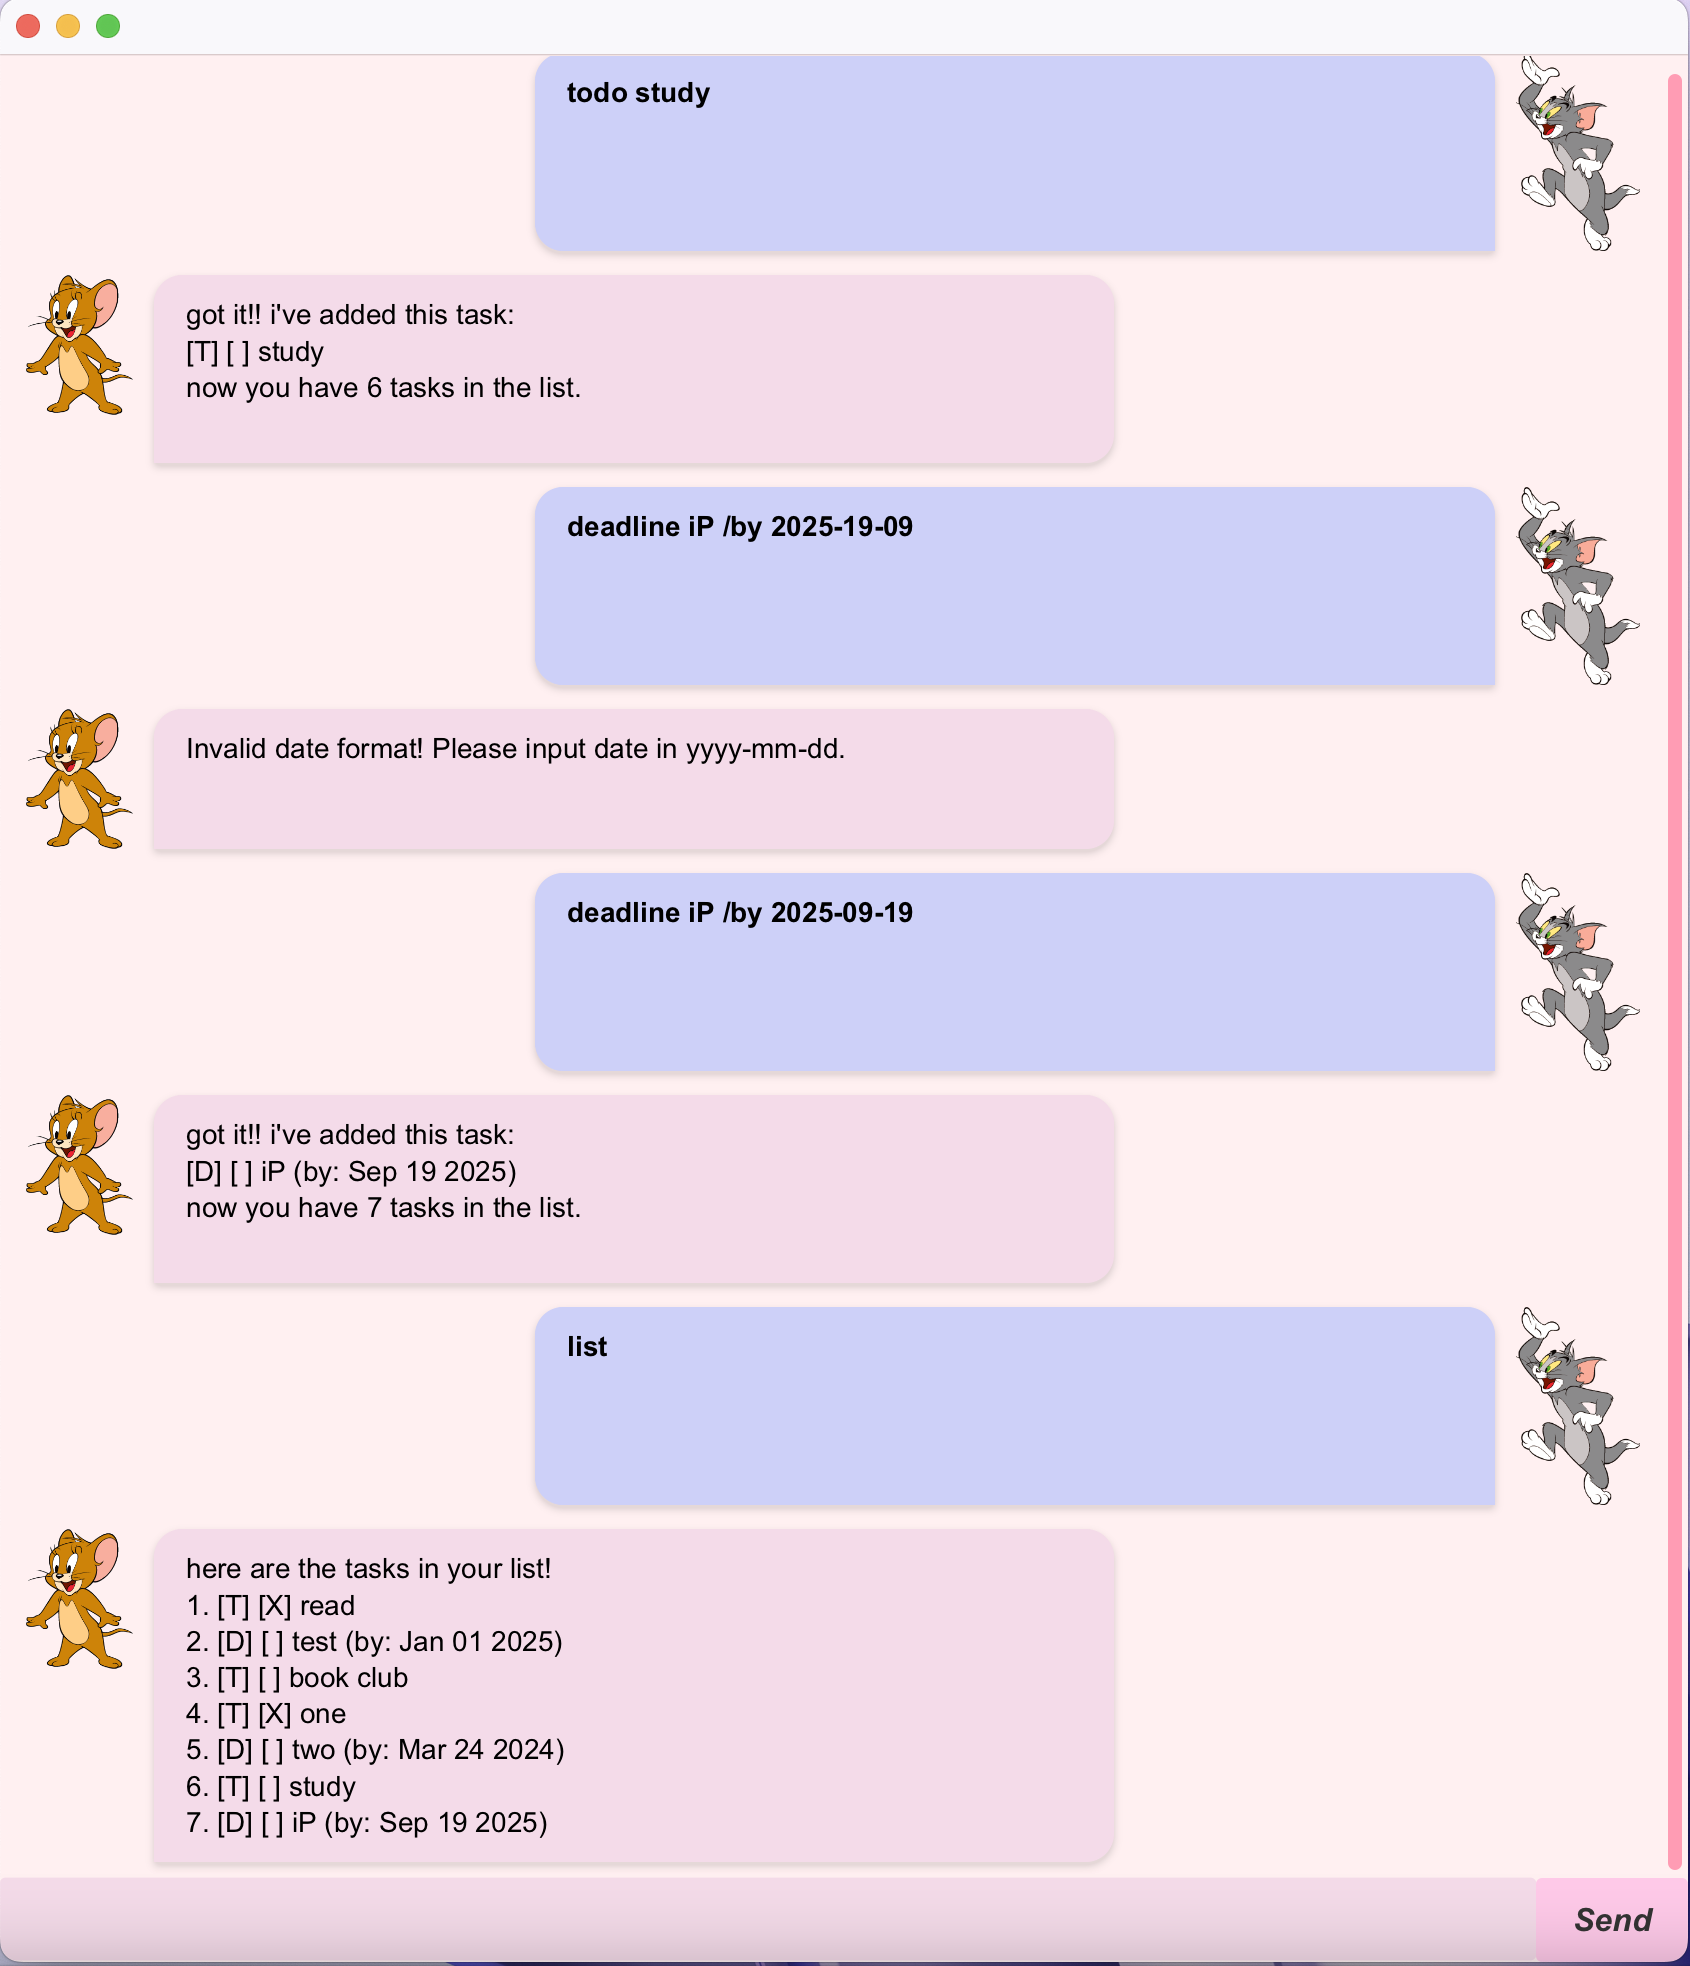
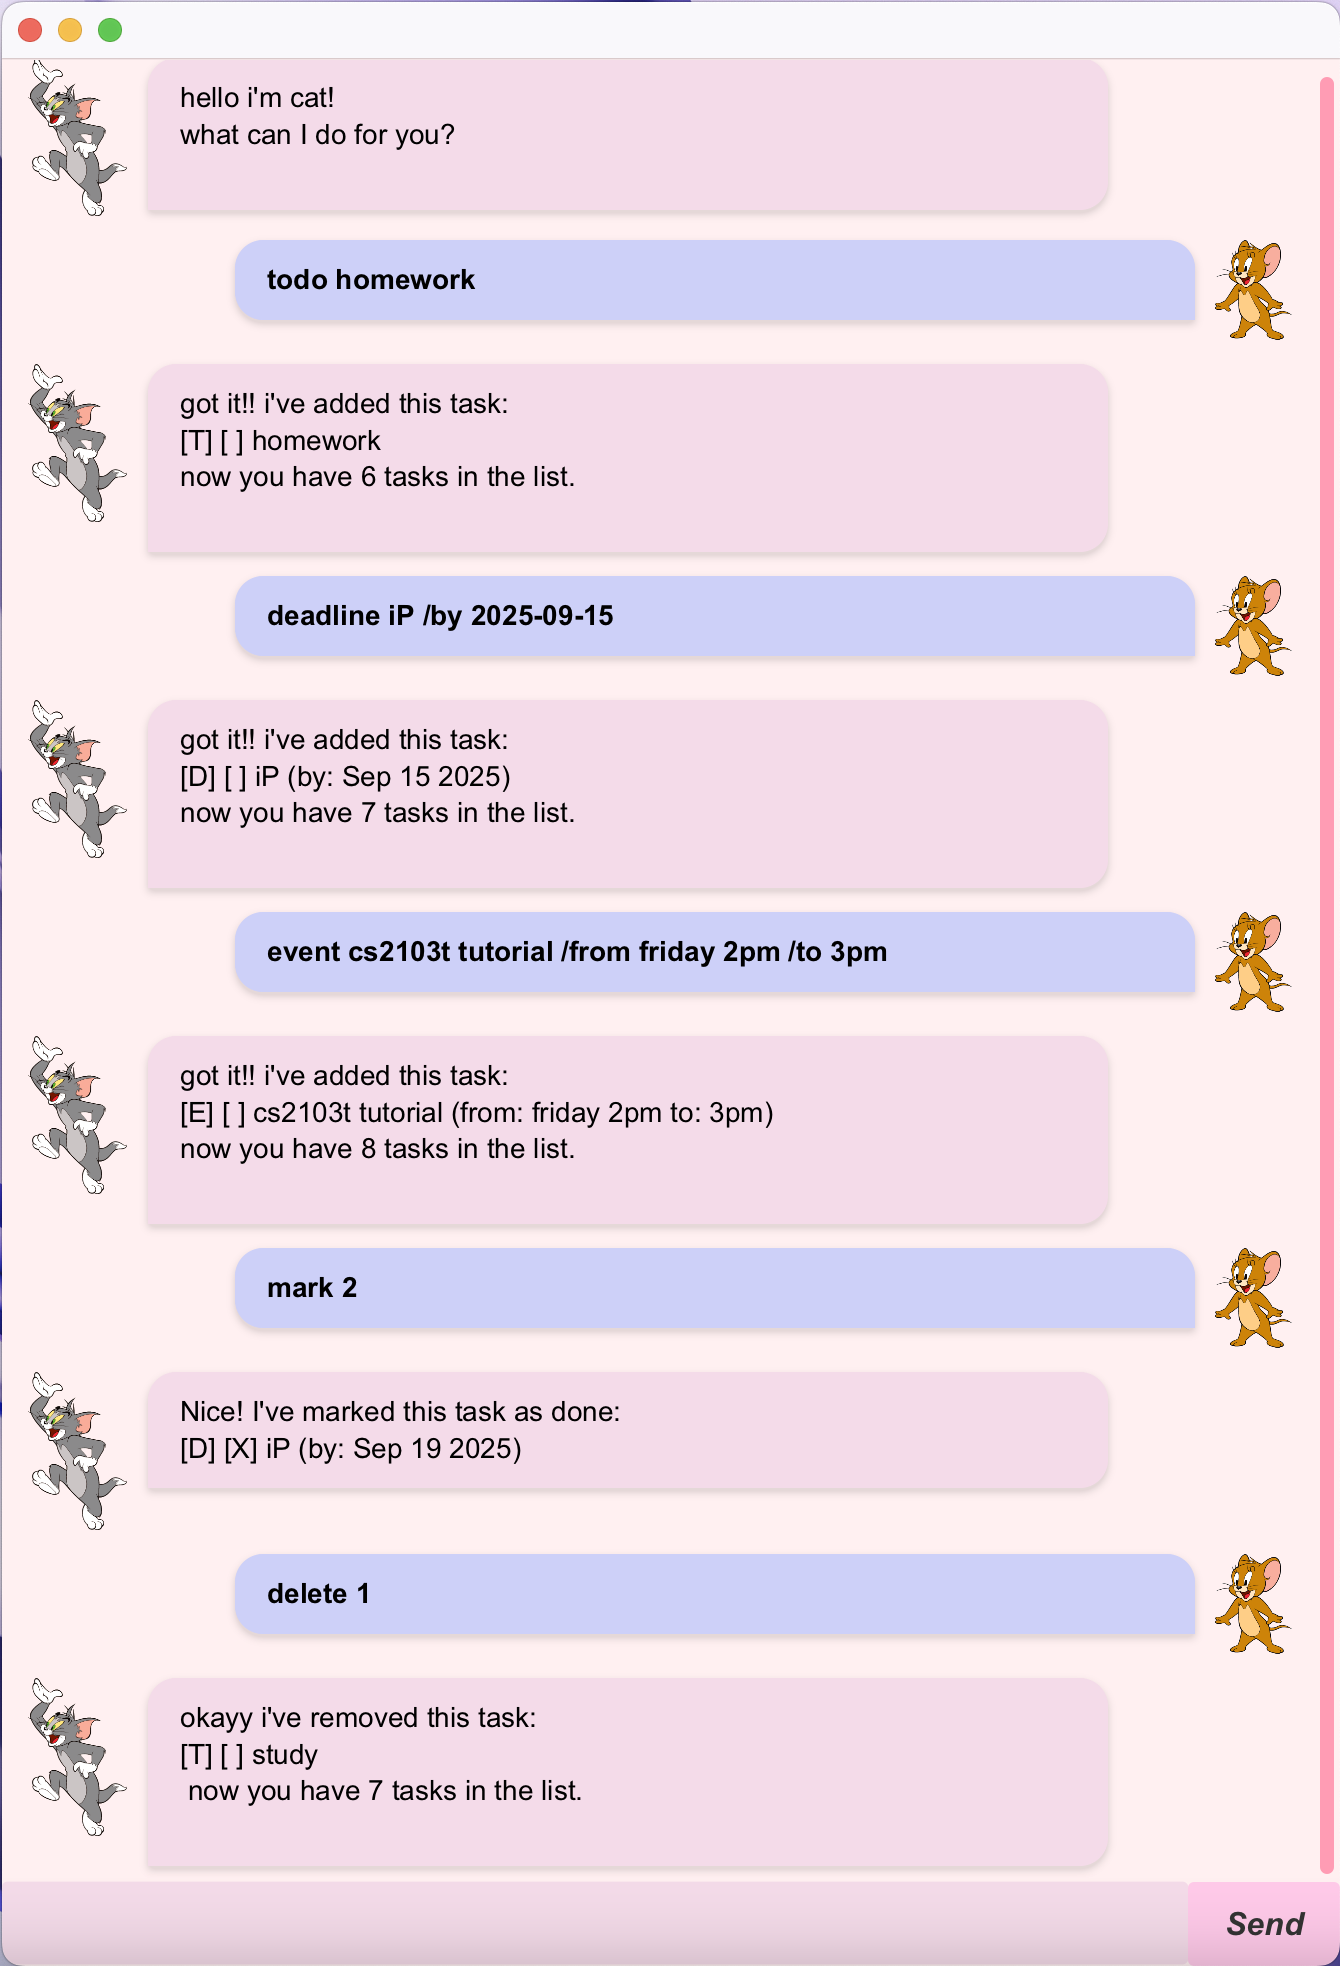
Show greeting message on app launch
Previously, the chat window appeared empty until the user typed a
command. This could be confusing, as there was no indication that the
app was ready.

Let's inject Cat's greeting into the dialog container when the app
starts. This ensures that:

* the user is welcomed immediately on launch
* the interface feels more responsive and interactive
* available commands are hinted at by the initial message

diff --git a/src/main/resources/css/dialog-box.css b/src/main/resources/css/dialog-box.css
@@ -36,12 +36,12 @@
 
 /* app-side avatar (slightly smaller) */
 .app-row .avatar {
-    -fx-fit-width: 50px;
-    -fx-fit-height: 50px;
+    -fx-fit-width: 79px;
+    -fx-fit-height: 79px;
 }
 
 /* user-side avatar (leave at full size) */
 .user-row .avatar {
-    -fx-fit-width: 79px;
-    -fx-fit-height: 79px;
+    -fx-fit-width: 50px;
+    -fx-fit-height: 50px;
 }

diff --git a/src/main/java/cat/MainWindow.java b/src/main/java/cat/MainWindow.java
@@ -30,13 +30,17 @@ public class MainWindow extends AnchorPane {
         scrollPane.vvalueProperty().bind(dialogContainer.heightProperty());
     }
 
-    /** Injects the Duke instance */
+    /** Injects the Cat instance */
     public void setCat(Cat c) {
         cat = c;
+        String greeting = cat.greeting();
+        dialogContainer.getChildren().add(
+                DialogBox.getCatDialog(greeting, catImage)
+        );
     }
 
     /**
-     * Creates two dialog boxes, one echoing user input and the other containing Duke's reply and then appends them to
+     * Creates two dialog boxes, one echoing user input and the other containing Cat's reply and then appends them to
      * the dialog container. Clears the user input after processing.
      */
     @FXML

diff --git a/src/main/java/cat/Cat.java b/src/main/java/cat/Cat.java
@@ -248,4 +248,8 @@ public class Cat {
         storage.save(tasks);
         return output;
     }
+
+    public String greeting() {
+        return "hello i'm cat!\nwhat can I do for you?\n";
+    }
 }
